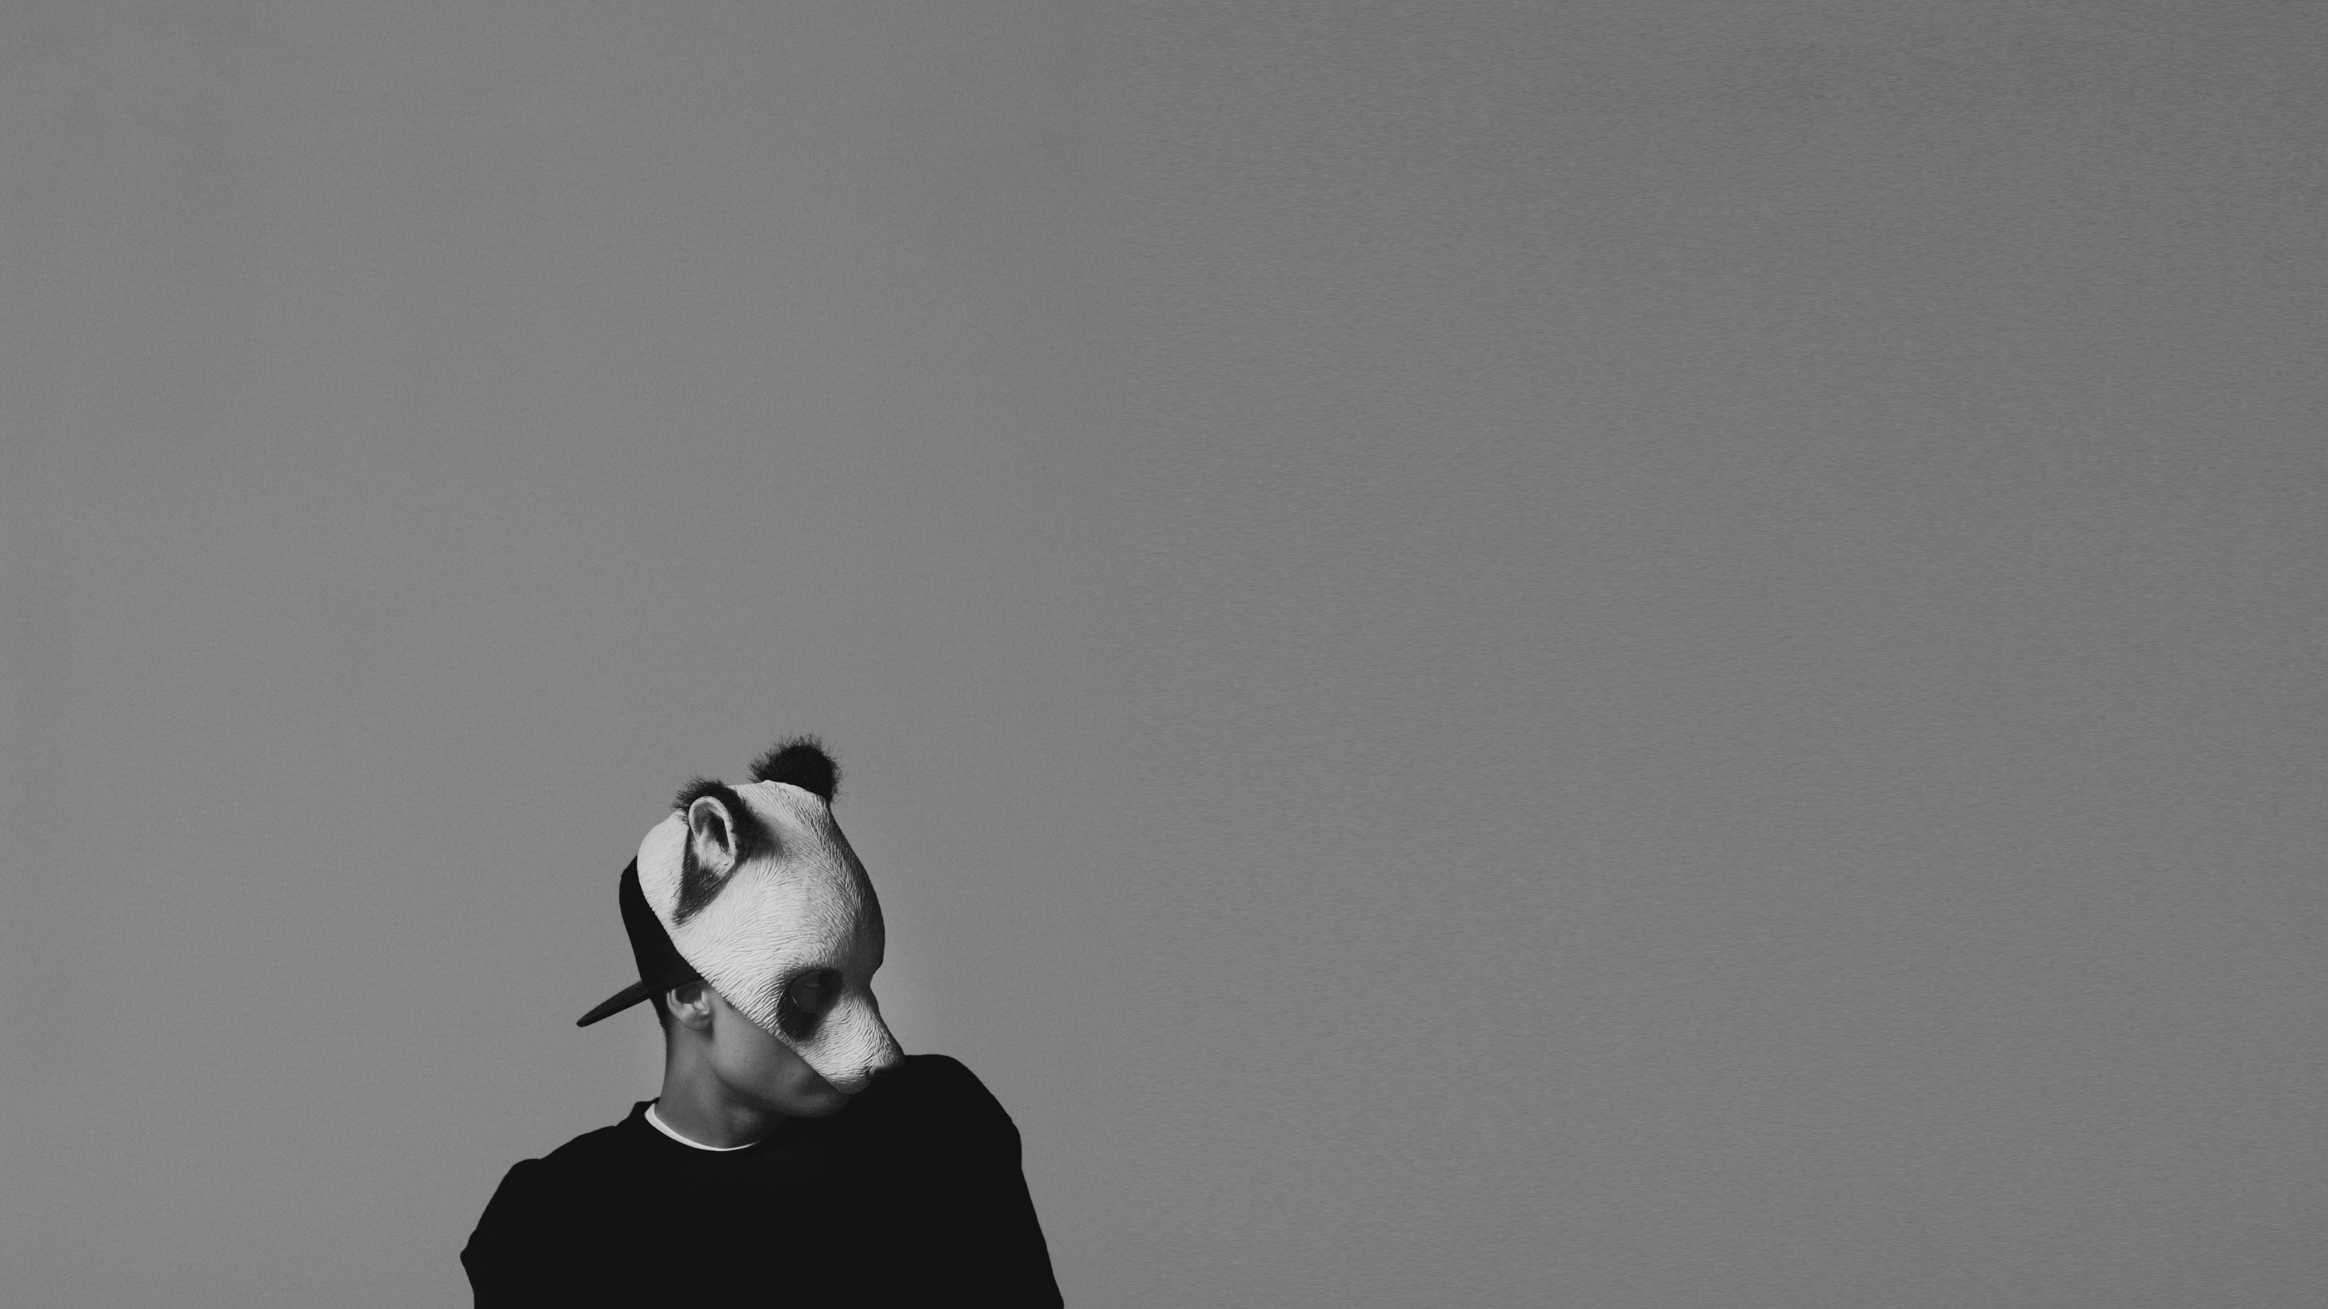
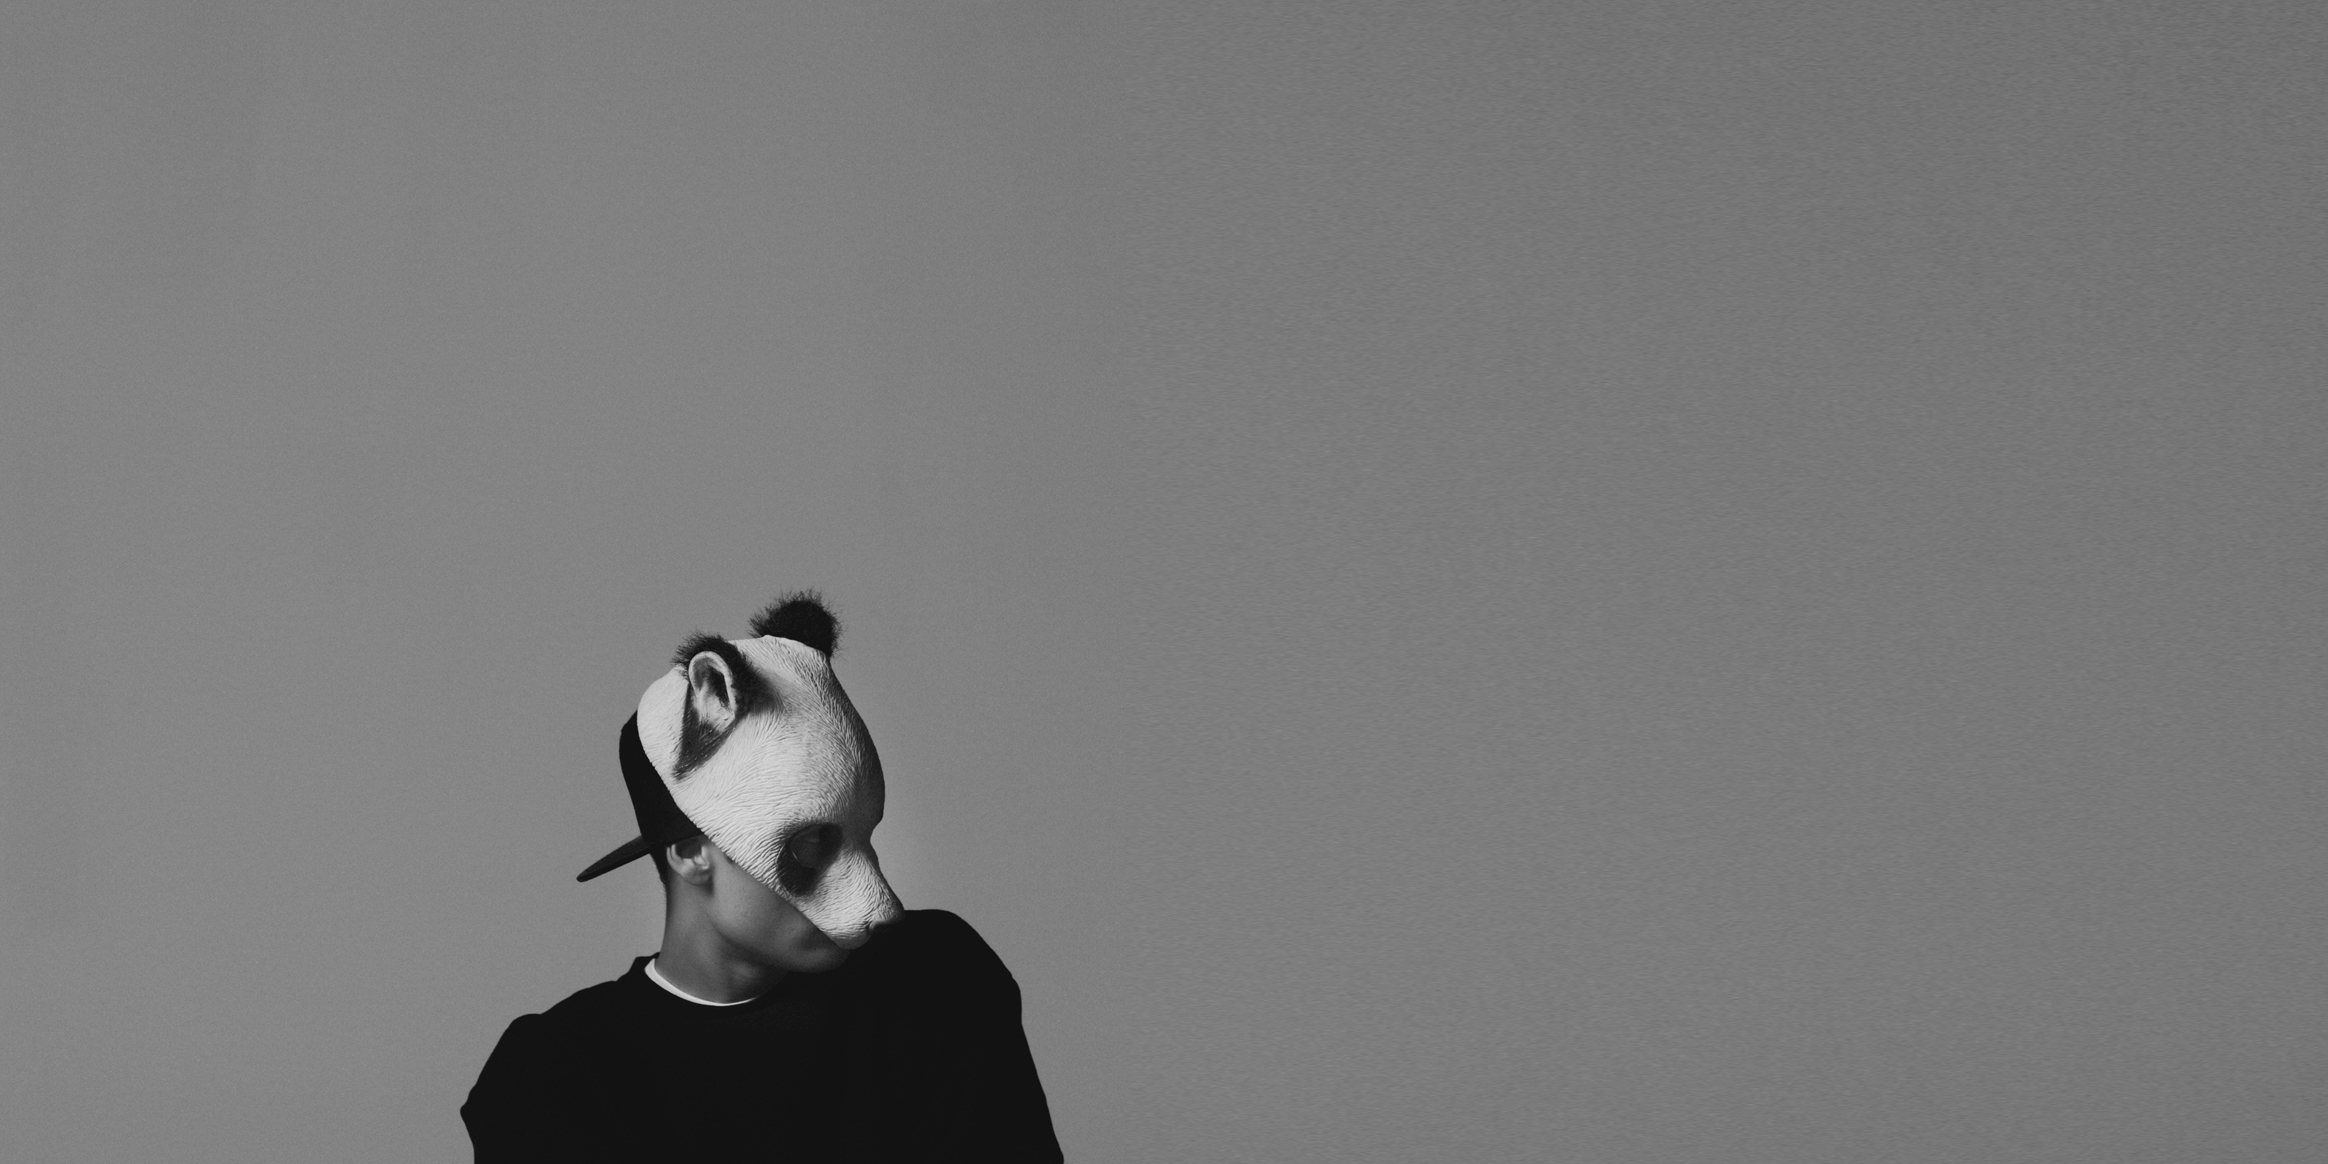
initial commit

diff --git a/a_collection/assets/css/style.css b/a_collection/assets/css/style.css
@@ -388,7 +388,7 @@ main {
 #home_bg {
 	position: absolute;
 	top: -23%;
-	left: -20%;
+	left: -15%;
 	height: 130%;
 }
 
